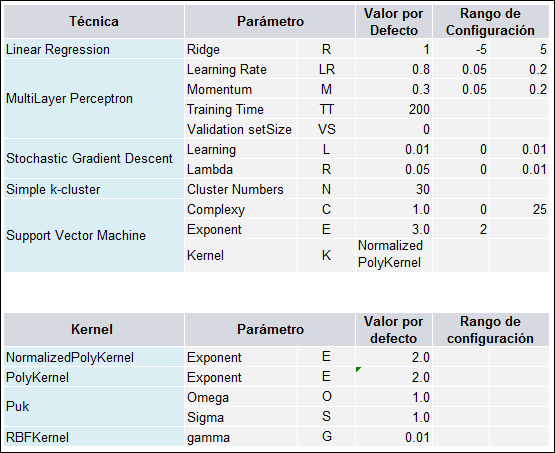
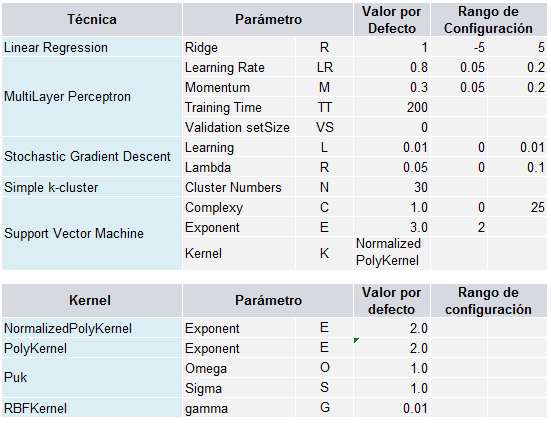
tesis v1.0 commit

diff --git a/src/com/example/prediction/logica/models/SGDClassifier.java b/src/com/example/prediction/logica/models/SGDClassifier.java
@@ -8,7 +8,7 @@ import weka.classifiers.functions.SGD;
 public class SGDClassifier extends AbsWekaClassifier {
 
 	private static final double MIN_VALUE = 0;
-	private static final double MAX_VALUE = 0.1;
+	private static final double MAX_VALUE = 0.01;
 	private static final double DEFAULT_LEARNING = 0.01;
 	private static final double DEFAULT_LAMBDA = 0.5;
 
@@ -27,7 +27,7 @@ public class SGDClassifier extends AbsWekaClassifier {
 		classifier=sgd;
 		WekaSimpleParameter l = new WekaSimpleParameter('L', DEFAULT_LEARNING, "L");
 		l.setMinValor(0);
-		l.setMaxValue((float) 0.1);
+		l.setMaxValue((float) 0.01);
 		addParameter(l);
 		WekaSimpleParameter m = new WekaSimpleParameter('R', DEFAULT_LAMBDA, "R");
 		m.setMinValor(0);

diff --git a/src/com/example/prediction/graphic/BarGraphics.java b/src/com/example/prediction/graphic/BarGraphics.java
@@ -73,7 +73,7 @@ public class BarGraphics extends AbsGraphics {
 					   
 				   }  
 			  }
-			return Config.Graphic.GRAPHIC_BAR_COLOR;																					  
+			return new Color(Config.Graphic.GRAPHIC_BAR_COLOR.getRed()+(row*50)%255,Config.Graphic.GRAPHIC_BAR_COLOR.getGreen()+(row*50)%255, Config.Graphic.GRAPHIC_BAR_COLOR.getBlue()+(row*50)%255);																					  
 		   }
 		
 		//SHOW VALUES ON BAR WHICH RESULTS ARE BETTER!!
